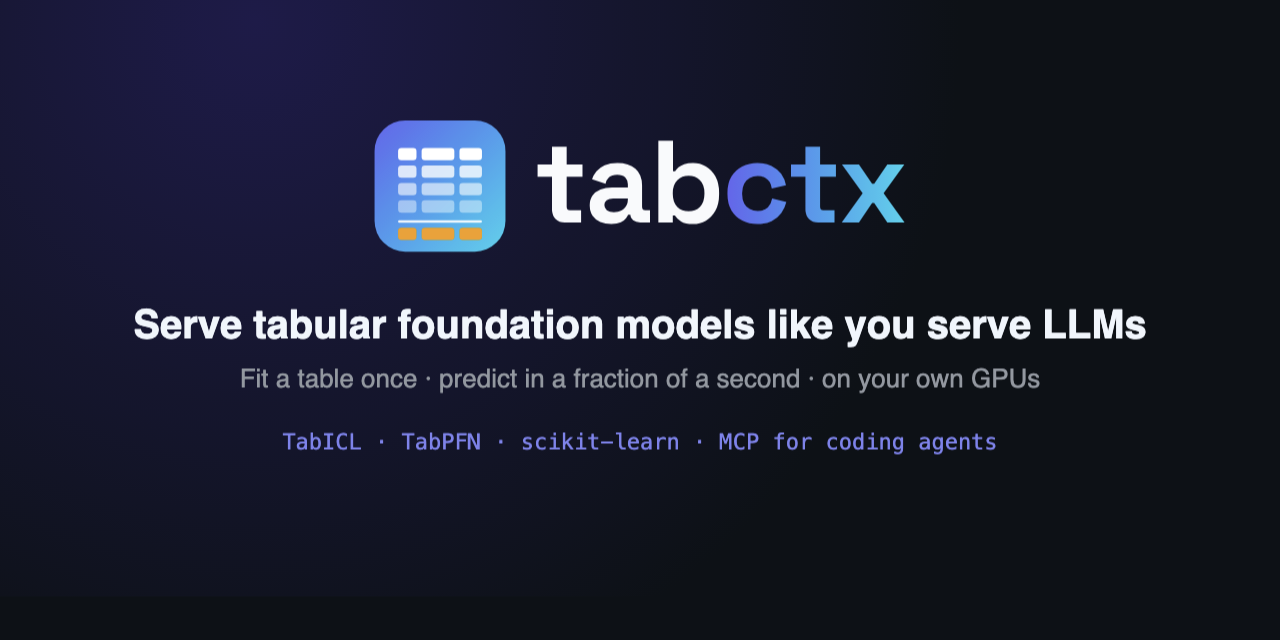
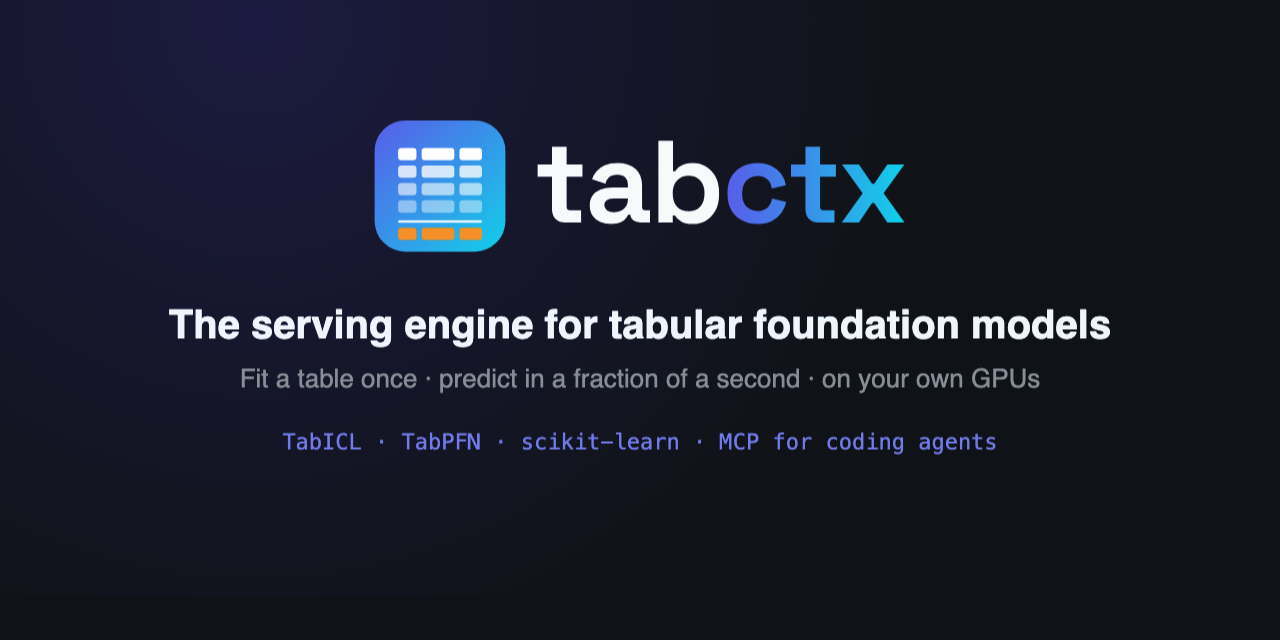
Tagline and docs: describe tabctx directly, not by analogy to LLMs (#100)
New tagline: "The serving engine for tabular foundation models." The
README's "OpenAI-style endpoint" is now an HTTP endpoint; the vLLM and
PagedAttention comparisons leave docs/how-it-works.md, the package and
cache docstrings and the ROADMAP; the benchmarks define their metrics
directly instead of mapping them to TTFT and tokens/s; "chat-completions
style" leaves service.py and two test docstrings. The social preview
image carries the new tagline.

Literal mentions stay: a gateway's catalog that lists LLMs, placement
for GPUs shared with LLMs, and the agent demo. CHANGELOG history is left
as written.

Changed region(s): [[0.0938, 0.4688, 0.9062, 0.5625], [0.2812, 0.1875, 0.4062, 0.4062], [0.5938, 0.2188, 0.7188, 0.3438]]

diff --git a/benchmarks/bench_concurrency.py b/benchmarks/bench_concurrency.py
@@ -1,28 +1,15 @@
 #!/usr/bin/env python3
-"""Concurrency sweep benchmark for a running tabctx deployment, using the
-same vocabulary this org already uses for LLM benchmarking
-(inference-platform/benchmarks/bench.py: concurrency sweep, throughput,
-latency percentiles, JSON baselines) so results are directly comparable
-across model/engine types, adapted for what tabctx's workload actually is:
+"""Concurrency sweep benchmark for a running tabctx deployment: throughput
+and latency percentiles at c=1,2,4,8,16..., saved as JSON baselines (the
+format inference-platform/benchmarks/bench.py uses). It measures:
 
-  LLM concept                    tabctx analog
-  ----------------------------   --------------------------------------------
-  TTFT (time to first token)     cold_fit_latency_ms -- one-time cost before
-                                  a NEW tenant's context is usable at all.
-                                  There's no streaming equivalent of "first
-                                  token" here; fit() is the all-or-nothing
-                                  gate a tenant must clear before anything
-                                  is servable, so it plays TTFT's role.
-  decode / inter-token latency   warm_predict_latency_ms -- recurring cost
-                                  of a request against an ALREADY-cached
-                                  context. Not streamed (no per-token
-                                  granularity), so this is a whole-response
-                                  latency, not a per-token one.
-  output tok/s (throughput)      warm_predict_ops_per_sec -- steady-state
-                                  throughput of predict() calls against
-                                  pre-warmed, distinct tenants' contexts.
-  concurrency sweep              same concept: run at c=1,2,4,8,16... and
-                                  see how throughput/latency respond.
+  cold_fit_latency_ms        one-time cost before a NEW tenant's context
+                             is usable at all: fit() is the gate a tenant
+                             must clear before anything is servable.
+  warm_predict_latency_ms    recurring cost of a request against an
+                             ALREADY-cached context (whole response).
+  warm_predict_ops_per_sec   steady-state throughput of predict() calls
+                             against pre-warmed, distinct tenants' contexts.
 
 Why sweep with DISTINCT tenants per concurrency level (not N threads
 hammering one dataset_id): the question this answers is "how does the
@@ -31,13 +18,12 @@ matters for capacity planning -- not lock contention on a single shared
 resource (that's covered separately by probe_scale.py's race tests).
 
 v1 is known to serialize all GPU work per replica via one coarse lock (see
-tabctx's README) -- unlike an LLM engine's continuous batching, throughput
+tabctx's README), so throughput
 here is NOT expected to scale with concurrency past c=1; if anything it
 should plateau or degrade (queueing) as c grows. That is the headline
 number this benchmark exists to track over time: re-run it after any
 future concurrency-model change and compare against a saved baseline to
-prove whether it actually improved, the same way inference-platform's LLM
-benchmarks compare before/after a config change.
+prove whether it actually improved.
 
 Usage:
   bench_concurrency.py --base-url http://127.0.0.1:8000 \

diff --git a/src/tabctx/serve/service.py b/src/tabctx/serve/service.py
@@ -179,7 +179,7 @@ class FitRequest(BaseModel):
         default=None, description=_TASK_DOC
     )
     dataset_id: str | None = None
-    # Which model serves this dataset (chat-completions style): an exact
+    # Which model serves this dataset: an exact
     # id from GET /v1/models (e.g. "tabicl-v2", "tabpfn-3.5"). Default:
     # the deployment's first-listed model.
     model: str | None = None
@@ -771,8 +771,8 @@ class TabctxService:
 
     @fastapi_app.get("/v1/models")
     def models(self):
-        """Which models this deployment serves (chat-completions style
-        discovery): pass one of these ids as `model` in fit requests.
+        """Which models this deployment serves: pass one of these ids
+        as `model` in fit requests.
         The first is the default."""
         return {
             "data": [

diff --git a/src/tabctx/cache/manager.py b/src/tabctx/cache/manager.py
@@ -4,9 +4,8 @@ This is the core thing tabctx exists to add: TabICL and TabPFN both cache
 the encoded training context inside a single fitted estimator object
 (fit-once, predict-many), but that cache lives in exactly one process with
 no notion of capacity, eviction, or sharing across concurrent training sets.
-ContextCacheManager makes that a real multi-tenant resource -- the direct
-analog of what PagedAttention did for per-request LLM KV caches, scoped here
-to per-training-set tabular ICL contexts.
+ContextCacheManager makes that a real multi-tenant resource, one context
+per training set.
 
 Locking. The cache's lock guards only its bookkeeping (entries, usage,
 pins, ids in transit); spill reads and writes run outside it. Scheduling

diff --git a/src/tabctx/__init__.py b/src/tabctx/__init__.py
@@ -5,8 +5,7 @@ The core idea: these models already cache their encoded training context
 internally to speed up repeated predict() calls against the same training
 set (both TabICL and TabPFN call this a "KV cache"), but only as a
 single-process, single-estimator-object feature. tabctx makes that a real
-multi-tenant, evictable, memory-governed resource -- the analog of what
-PagedAttention did for per-request LLM KV caches.
+multi-tenant, evictable, memory-governed resource.
 """
 
 from tabctx.cache.manager import CachedContext, ContextCacheManager

diff --git a/src/tabctx/cache/spill.py b/src/tabctx/cache/spill.py
@@ -4,8 +4,7 @@ When GPU-budget pressure evicts a context, the caller-visible effect used
 to be a later 404 and a full re-fit. With a spill store attached
 (TABCTX_SPILL_DIR), capacity evictions instead serialize the context to
 local disk, and a later get() for it transparently reloads and re-admits
-it -- the same trade LLM engines make when they swap KV blocks to host
-memory.
+it.
 
 Economics, measured honestly (A100 + GCP pd-ssd, 2026-08-29): reloading
 a ~13GB spilled TabICL context took ~54s at ~250MB/s disk -- SLOWER than

diff --git a/tests/integration/test_client.py b/tests/integration/test_client.py
@@ -59,7 +59,7 @@ def test_one_shot_fit_predict(two_replica_service):
 
 
 def test_model_discovery_and_selection(two_replica_service):
-    """Chat-completions-style model API: GET /v1/models lists exact
+    """Model API: GET /v1/models lists exact
     model ids; fit accepts one via `model` and echoes it back."""
     client = TabctxClient(two_replica_service)
     models = client.models()

diff --git a/tests/unit/test_multi_backend_engine.py b/tests/unit/test_multi_backend_engine.py
@@ -1,6 +1,6 @@
 """Unit tests for multi-backend dispatch in TabctxEngine: several models
 served over ONE shared cache and GPU budget, contexts remembering which
-backend fit them (the chat-completions-style serving shape)."""
+backend fit them."""
 
 import pytest
 

diff --git a/docs/how-it-works.md b/docs/how-it-works.md
@@ -12,9 +12,8 @@ pretrained model, any table, no training pipeline.
 It also creates a serving problem. Encoding the training table is by far
 the most expensive part of that forward pass, and it's identical every
 time you predict against the same training set. Both TabICL and TabPFN
-know this: each can cache its own encoded training table (both call this
-their "KV cache", by analogy to LLMs) so repeat predictions skip the
-re-encode. But that cache lives inside one Python estimator object in
+know this: each can cache its own encoded training table (both call it
+their "KV cache") so repeat predictions skip the re-encode. But that cache lives inside one Python estimator object in
 one process. The moment you want to *serve* these models -- many users,
 many datasets, one GPU -- you need things a single object can't give
 you:
@@ -27,21 +26,15 @@ you:
 - route repeat requests to wherever their cached table lives when the
   service scales past one replica.
 
-**tabctx is that layer.** LLM serving went through the same transition
--- a per-request KV cache inside one process became a managed,
-multi-tenant, memory-governed resource (vLLM's PagedAttention is the
-famous example). tabctx does the analogous job for tabular ICL models,
-where the cached unit is a training table's encoding rather than a chat
-session's tokens. Hosted APIs such as Prior Labs' cache a fitted table
-on their own servers; tabctx is the open, self-hosted version, for
-several models at once, on GPUs you run.
+**tabctx is that layer.** The unit it manages is a training table's
+encoding: one context per table, cached, measured, evicted and routed
+like any other shared resource. Hosted APIs such as Prior Labs' cache a
+fitted table on their own servers; tabctx is the open, self-hosted
+version, for several models at once, on GPUs you run.
 
-Two deliberate non-choices, briefly: it isn't built *on* vLLM, because
-vLLM's machinery is specialized for autoregressive token-by-token
-generation, which these models don't do. And it isn't written in a
-"faster language": like vLLM itself, the heavy math runs in the model's
-GPU kernels, so plain Python orchestration behind a standard Ray Serve
-deployment is exactly fast enough.
+It is plain Python on purpose. The heavy math runs in the models' own
+GPU kernels, so the orchestration around them (the cache, admission,
+routing) costs little next to a fit or a predict.
 
 ## Architecture
 

diff --git a/benchmarks/README.md b/benchmarks/README.md
@@ -1,15 +1,13 @@
 # tabctx benchmarks
 
 `bench_concurrency.py` runs a concurrency sweep against a live tabctx
-deployment and reports throughput/latency using the same vocabulary this
-org already uses for LLM benchmarking, adapted to what tabctx's workload
-actually is (see the script's own docstring for the full mapping):
+deployment and reports throughput and latency:
 
-| LLM concept | tabctx analog |
+| Metric | What it measures |
 |---|---|
-| TTFT (time to first token) | `cold_fit_latency_ms`: one-time cost before a new tenant's context is usable at all |
-| decode / inter-token latency | `warm_predict_latency_ms`: recurring cost of a request against an already-cached context |
-| output tok/s | `warm_predict_ops_per_sec`: steady-state throughput against pre-warmed, distinct tenants |
+| `cold_fit_latency_ms` | One-time cost before a new tenant's context is usable at all |
+| `warm_predict_latency_ms` | Recurring cost of a request against an already-cached context |
+| `warm_predict_ops_per_sec` | Steady-state throughput against pre-warmed, distinct tenants |
 
 ## Usage
 
@@ -37,16 +35,13 @@ VP_API_KEY=... python3 benchmarks/eval_real_datasets.py \
 
 ## Why this exists
 
-tabctx serializes all GPU work per replica via one coarse lock. Unlike an
-LLM engine's continuous batching, throughput here is **not** expected to
-scale with concurrency past c=1 within one replica (same-context requests
+tabctx serializes all GPU work per replica via one coarse lock, so
+throughput is **not** expected to scale with concurrency past c=1 within one replica (same-context requests
 coalesce -- see `batching.py` -- but the sweep deliberately uses distinct
 tenants); it should plateau as concurrency grows. That's the headline
 number this benchmark tracks: re-run it after any future
 concurrency-model change and diff against a saved baseline in
-`baselines/` to prove whether it actually improved, the same way
-`inference-platform`'s LLM benchmarks compare confirmed before/after
-numbers for a config change.
+`baselines/` to prove whether it actually improved.
 
 **Comparability warning:** baselines older than v0.7.0 were measured with
 tabicl's kv-cache OFF (every predict re-encoded the training set -- see

diff --git a/README.md b/README.md
@@ -6,7 +6,7 @@
 </p>
 
 <p align="center">
-  <b>Serve tabular foundation models like you serve LLMs.</b><br>
+  <b>The serving engine for tabular foundation models.</b><br>
   Fit a table once, keep it on the GPU, and answer every later prediction in a fraction of a second.
 </p>
 
@@ -35,8 +35,8 @@ boosting with no training loop ([our numbers](https://github.com/VectorInstitute
 the training table *is* the prompt. Encoding that table is the expensive part, and it's the same
 work on every prediction. **tabctx encodes each table once, keeps the
 result in a GPU cache shared by many tables and users, and serves
-predictions against it**, behind one OpenAI-style endpoint you run on
-your own GPUs.
+predictions against it**, behind one HTTP endpoint you run on your
+own GPUs.
 
 <p align="center">
   <picture>

diff --git a/ROADMAP.md b/ROADMAP.md
@@ -47,10 +47,8 @@ gets deleted when it empties.
 
 ## Throughput and table size: multi-GPU and CUDA-level work
 
-The LLM serving engines (vLLM, SGLang, TensorRT-LLM) got their gains first
-from memory management and scheduling (paged KV, continuous batching,
-prefix reuse) and then from CUDA kernels. tabctx already has the
-scheduling layer (context cache, usage-aware admission, evict-ahead,
+Serving gains come first from memory management and scheduling, then
+from CUDA kernels. tabctx already has the scheduling layer (context cache, usage-aware admission, evict-ahead,
 spill, same-context coalescing). This track adds multi-GPU replicas and
 the kernel work. Everything is developed and tested on a GKE GPU node
 first, then validated on prod's A40s (Ampere sm_86: no FlashAttention-3,
